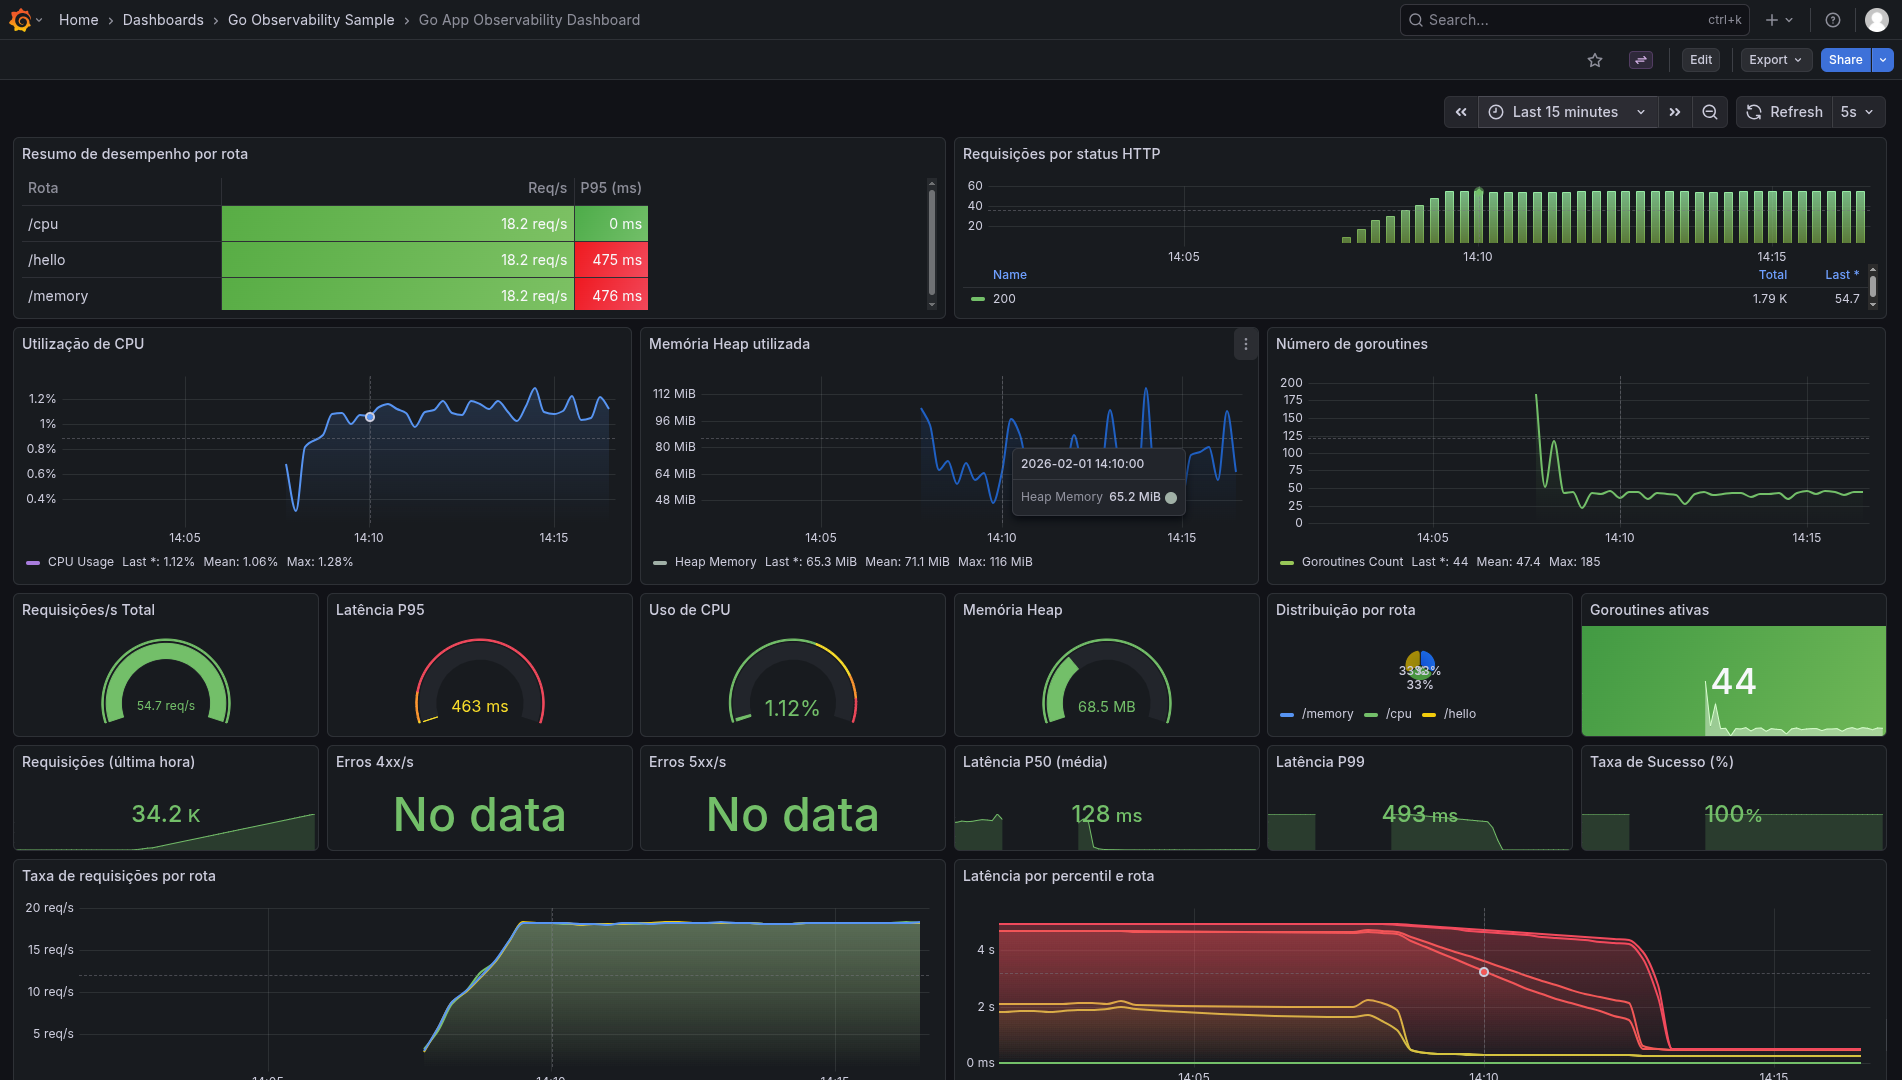
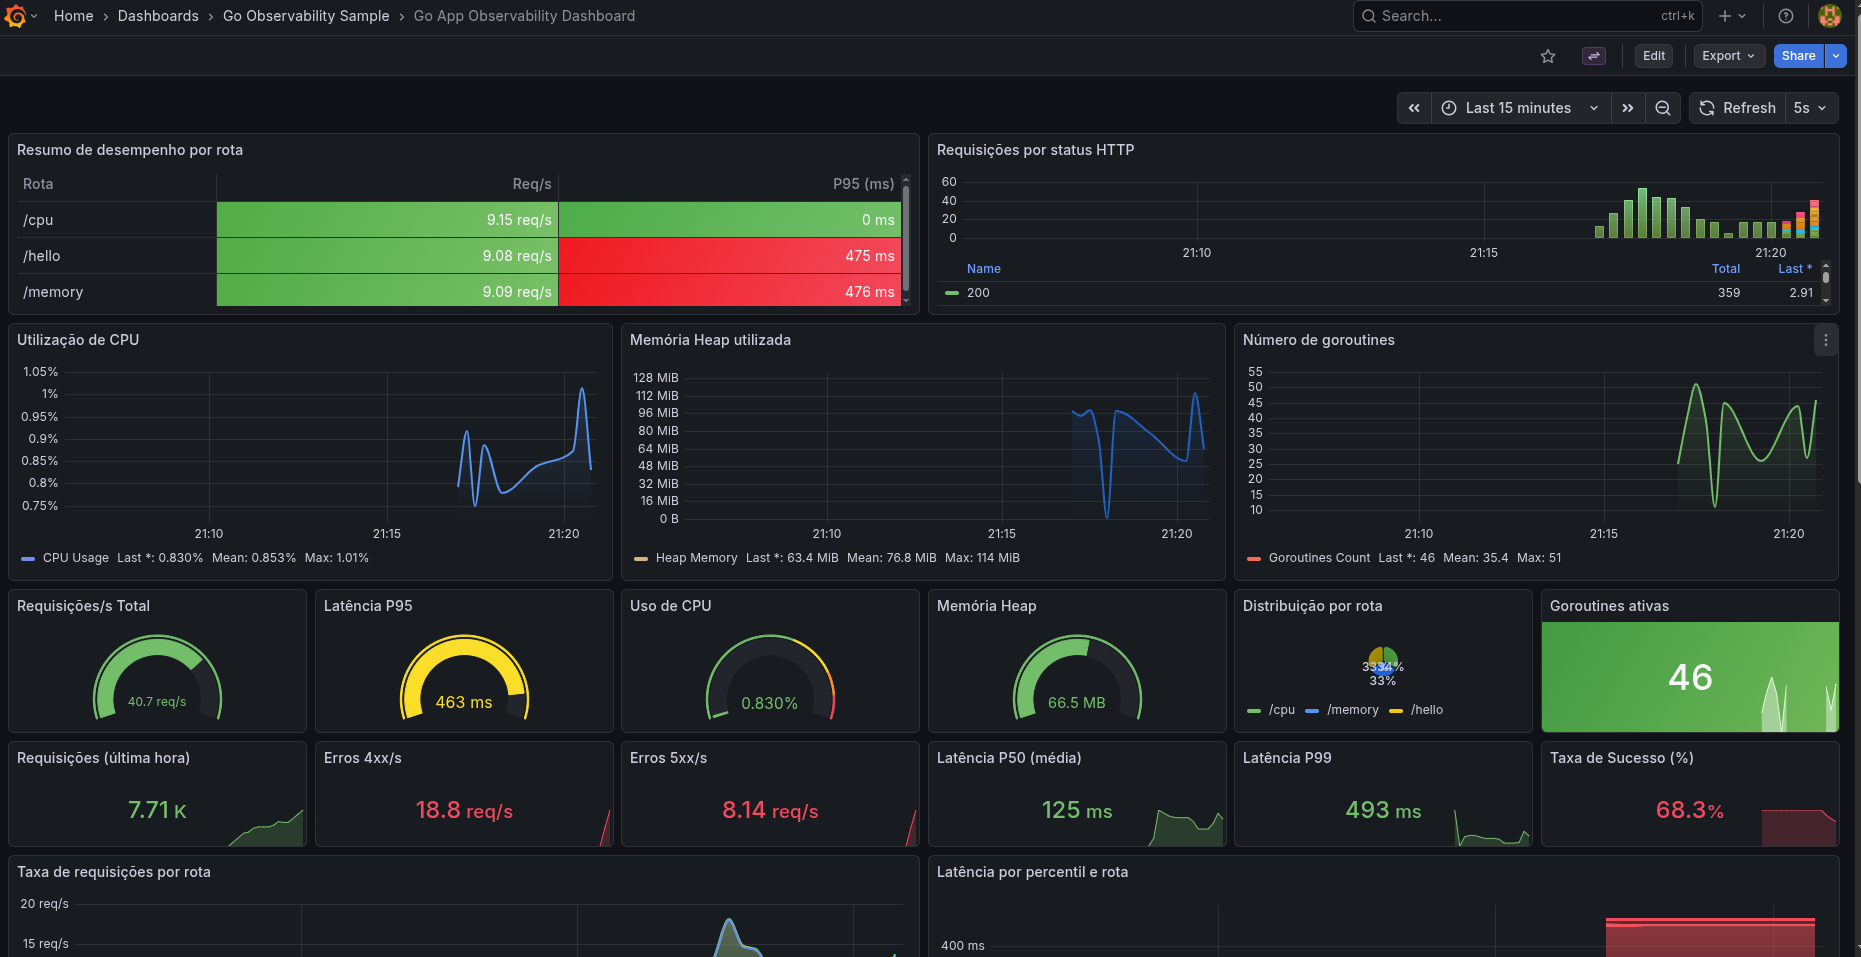
feat: simulate different status codes responses - Updated examples images - Set environment variable for enable status codes simulation - Adjust instrumentation response writer middleware

diff --git a/internal/server/instrumentation.go b/internal/server/instrumentation.go
@@ -11,20 +11,54 @@ import (
 
 type statusWriter struct {
 	http.ResponseWriter
-	status int
+	status       int
+	forcedStatus int
+	wroteHeader  bool
 }
 
 func (w *statusWriter) WriteHeader(code int) {
+	if w.wroteHeader {
+		return
+	}
+
+	if w.forcedStatus != 0 {
+		code = w.forcedStatus
+	}
+
 	w.status = code
+	w.wroteHeader = true
 	w.ResponseWriter.WriteHeader(code)
+}
+
+func (w *statusWriter) Write(b []byte) (int, error) {
+	if !w.wroteHeader {
+		if w.forcedStatus != 0 {
+			w.WriteHeader(w.forcedStatus)
+		} else {
+			w.WriteHeader(http.StatusOK)
+		}
+	}
+	return w.ResponseWriter.Write(b)
 }
 
 func Instrument(route string, h http.Handler, m *metrics.AppMetrics) http.Handler {
 	return http.HandlerFunc(func(w http.ResponseWriter, r *http.Request) {
-		sw := &statusWriter{ResponseWriter: w, status: getRandStatusCode()}
+		sw := &statusWriter{ResponseWriter: w}
 		start := time.Now()
 
+		if code, ok := statusFromRequest(r); ok {
+			sw.forcedStatus = code
+		}
+
 		h.ServeHTTP(sw, r)
+
+		if sw.status == 0 {
+			if sw.forcedStatus != 0 {
+				sw.status = sw.forcedStatus
+			} else {
+				sw.status = http.StatusOK
+			}
+		}
 
 		attrs := []attribute.KeyValue{
 			attribute.String("http.route", route),

diff --git a/internal/server/helper.go b/internal/server/helper.go
@@ -5,6 +5,9 @@ import (
 	"log"
 	"math/rand"
 	"net/http"
+	"os"
+	"strconv"
+	"strings"
 	"time"
 
 	"go.opentelemetry.io/otel/trace"
@@ -49,4 +52,43 @@ func getRandomDur() time.Duration {
 func getRandStatusCode() int {
 	idx := rd.Intn(len(statusCodes))
 	return statusCodes[idx]
+}
+
+func statusFromRequest(r *http.Request) (int, bool) {
+	if code, ok := parseStatus(r.URL.Query().Get("status")); ok {
+		return code, true
+	}
+
+	if code, ok := parseStatus(r.Header.Get("X-Debug-Status")); ok {
+		return code, true
+	}
+
+	if isTruthy(os.Getenv("SIMULATE_STATUS_CODES")) {
+		return getRandStatusCode(), true
+	}
+
+	return 0, false
+}
+
+func parseStatus(value string) (int, bool) {
+	value = strings.TrimSpace(value)
+	if value == "" {
+		return 0, false
+	}
+
+	code, err := strconv.Atoi(value)
+	if err != nil || code < 100 || code > 599 {
+		return 0, false
+	}
+
+	return code, true
+}
+
+func isTruthy(value string) bool {
+	switch strings.ToLower(strings.TrimSpace(value)) {
+	case "1", "true", "yes", "y", "on":
+		return true
+	default:
+		return false
+	}
 }
